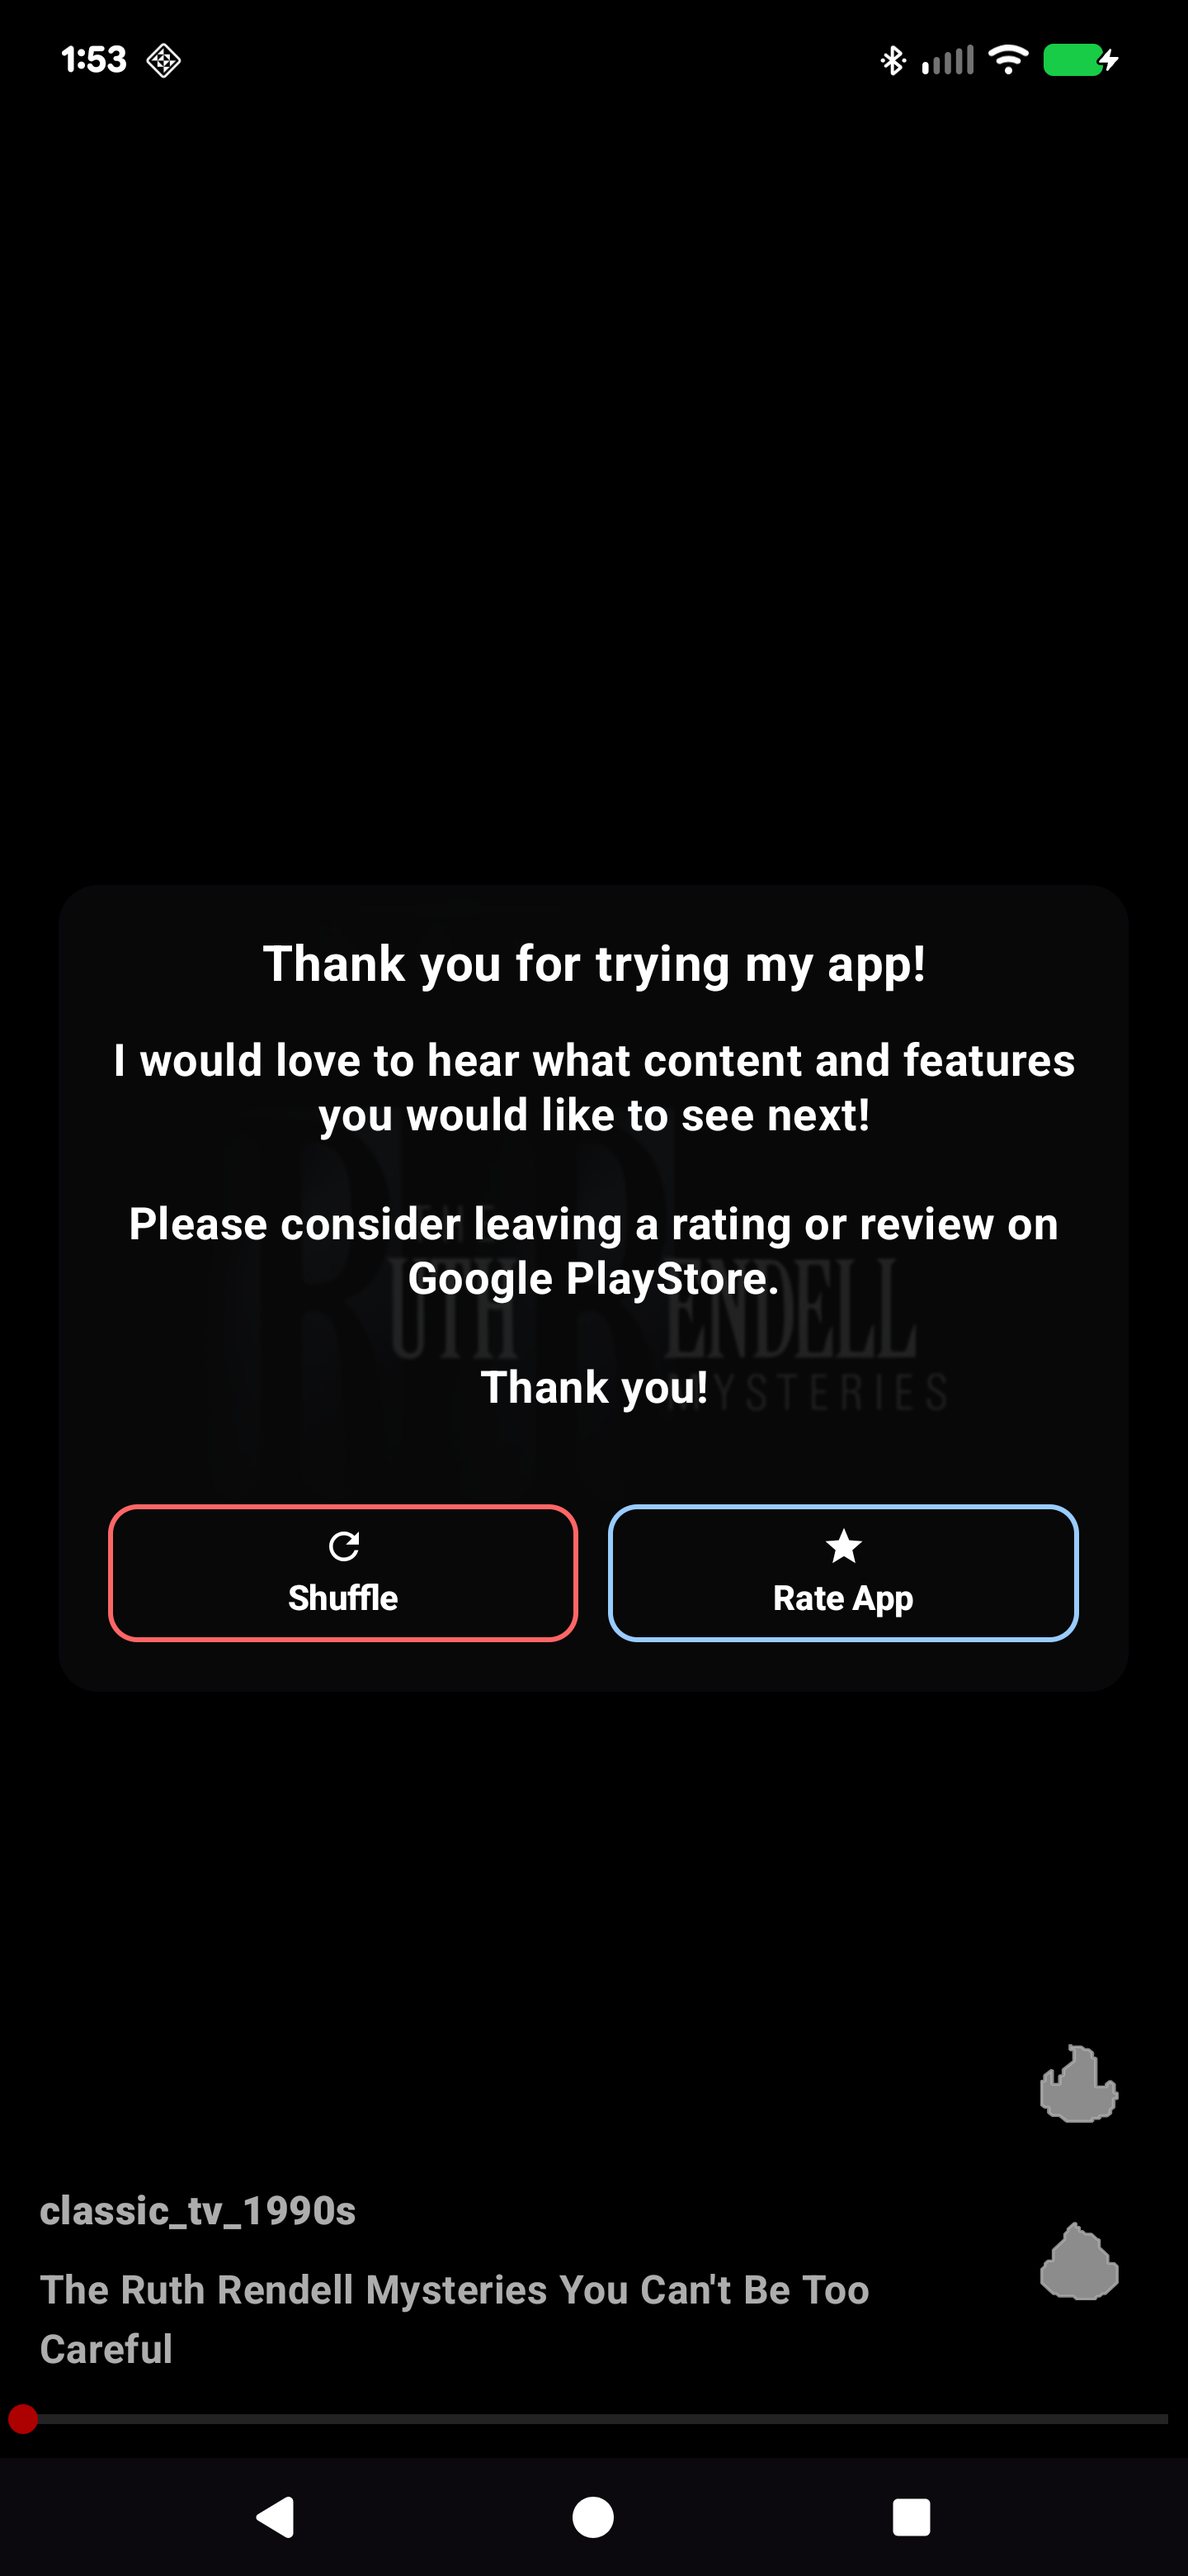
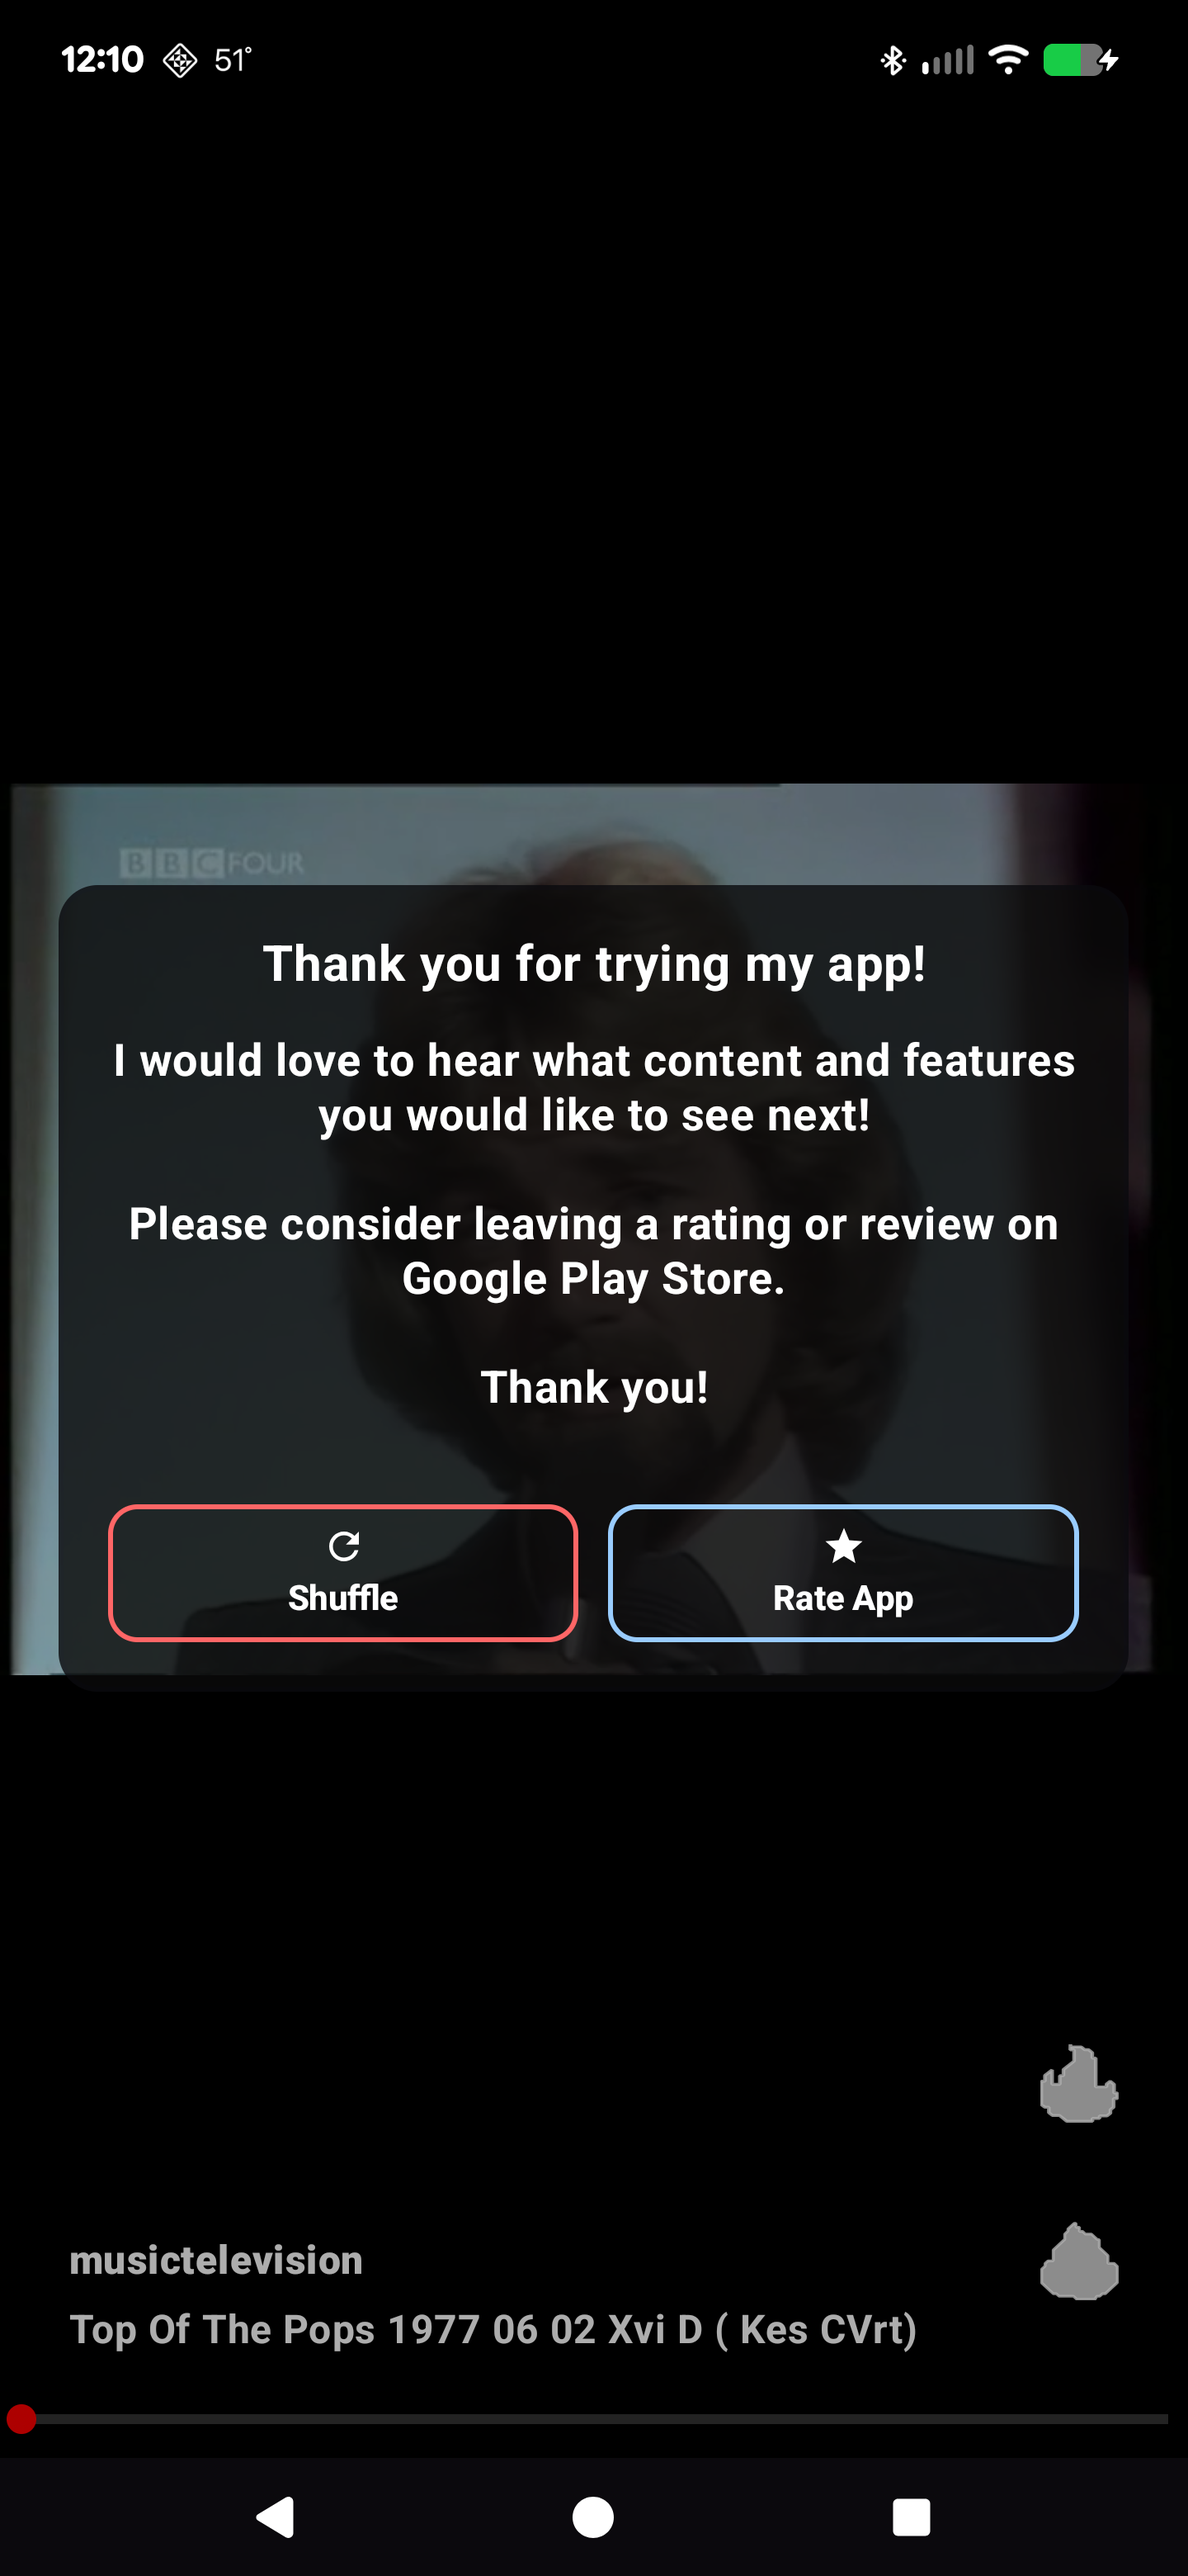
images added and formatting

diff --git a/index.html b/index.html
@@ -91,7 +91,7 @@
 				<li>fullstack web (and cloud) development with HTML, CSS, JavaScript, and TypeScript</li>
 				<li>mobile and backend development with Java</li>
 				<li>machine learning with Python and Jupyter</li>
-				<li>fullstack mobile app engineering with Kotlin and MVVM architecture</li>
+				<li>fullstack mobile engineering with Kotlin</li>
 			</ul>
 		</p>
 		<p> I recently engineered a video-streaming Android app (currently on a Google Play Store test track) named "Flick", which is what the little cute birdie wanted to show you.
@@ -118,6 +118,8 @@
 			<p>Flick is a vertical video app in the style of TikTok with an added discovery feature: a single sideways swipe reveals videos with significant similarity to the current one. Visual and auditory feedback educates users on app functionality and navigation, ensuring an optimal experience from first launch. Users interact via fire (like) and poop (dislike) icons, with video ID, view duration, and preference data uploaded to Firestore.</p>
 			<p>After an initial warmup period, the vertical feed operates on an intelligent cycle that prioritizes videos predicted to generate high engagement. The recommendation engine tokenizes Archive.org metadata and employs cosine similarity calculations weighted by view time and like/dislike ratios. Random content is interspersed to facilitate content discovery beyond the algorithm. The app prebuffers two upcoming videos by default, reducing to one when a qualified similar video exists at the current index. A history index tracks the last-viewed video, enabling users to recover from accidental swipes.</p>
 		</div>
+
+		<hr>
 
 		<h4>Flick User Guide: <a href="assets/documents/user-guide.html" class="guide-link" target="_blank" rel="noopener noreferrer">View Here</a></h4>
 
@@ -240,11 +242,13 @@
 		<hr>
 
 		<h3>Continuous Integration (CI)</h2>
-		<div class="ci-images">
-			<img src="assets/images/flick/ci1.png" alt="CI tests passed">
-			<img src="assets/images/flick/ci2.png" alt="CI tests completed">
+		<div class="image-card">
+			<div class="ci-images">
+				<img src="assets/images/flick/ci1.png" alt="CI tests passed">
+				<img src="assets/images/flick/ci2.png" alt="CI tests completed">
+			</div>
 		</div>
-
+		
 		<hr>
 
 		<!-- Google Play Store CTA -->
@@ -298,10 +302,12 @@
 
 		<hr>
 
-		<img class="mario-image" src="assets/images/mario3.png" alt="2D Super Mario Bros. scene with flagpole scene with steps and a pipe">
-		<img class="mario-image" src="assets/images/mario1.png" alt="3D Super Mario Bros. scene with flagpole scene with steps and a pipe">
-		<img class="mario-image" src="assets/images/mario2.png" alt="3D Super Mario Bros. scene with a Goomba sneaking around behind the steps">
-		
+		<div class="image-card">
+			<img class="mario-image" src="assets/images/mario3.png" alt="2D Super Mario Bros. scene with flagpole scene with steps and a pipe">
+			<img class="mario-image" src="assets/images/mario1.png" alt="3D Super Mario Bros. scene with flagpole scene with steps and a pipe">
+			<img class="mario-image" src="assets/images/mario2.png" alt="3D Super Mario Bros. scene with a Goomba sneaking around behind the steps">
+		</div>
+
 		<h4>Project Files (GitHub): <a href="https://github.com/matthew-pool/matthew-pool.github.io/tree/main/super-mario-bros" target="_blank" rel="noopener noreferrer">View Here</a></h4>
 
 		<hr>
@@ -318,9 +324,13 @@
 		<div class="image-card">
 			<div class="buddy-screenshot-grid">
 				<img src="assets/images/buddy1.png" alt="InventoryBuddy default login screen">
-				<img src="assets/images/buddy2.png" alt="InventoryBuddy login screen with username and masked password">
+				<img src="assets/images/buddy2.png" alt="Login screen with username and masked password">
+				<img src="assets/images/buddy4.png" alt="Account created toast">
 				<img src="assets/images/buddy3.png" alt="SMS access request">
+				<img src="assets/images/buddy5.png" alt="Empty inventory">
 				<img src="assets/images/buddy6.png" alt="Default add window">
+				<img src="assets/images/buddy7.png" alt="Two cans of beans being added">
+				<img src="assets/images/buddy10.png" alt="Delete item prompt">
 			</div>
 		</div>
 
@@ -337,11 +347,13 @@
 
 		<hr>
 
-		<img src="assets/images/aac4.png" alt="Unit test results with all 16 tests passed" style="width: 700px; height: auto;">
-		<img src="assets/images/aac1.png" alt="Spreadsheet showing first few database records">
-		<img src="assets/images/aac2.png" alt="Geolocation map showing the Austin, TX area">
-		<img src="assets/images/aac3.png" alt="AAC database and pie chart of animal distribution">
-				
+		<div class="image-card">
+			<img src="assets/images/aac1.png" alt="Spreadsheet showing first few database records">
+			<img src="assets/images/aac2.png" alt="Geolocation map showing the Austin, TX area">
+			<img src="assets/images/aac4.png" alt="Unit test results with all 16 tests passed" style="width: 700px; height: auto;">
+			<img src="assets/images/aac3.png" alt="AAC database and pie chart of animal distribution">
+		</div>
+
 		<h4>Project Files (GitHub): <a href="https://github.com/matthew-pool/matthew-pool.github.io/tree/main/aac-dashboard" target="_blank" rel="noopener noreferrer">View Here</a></h4>
 
 		<hr>
@@ -365,8 +377,14 @@
 		
 		<hr>
 
-		<img src="assets/images/travel2.png" alt="Travel client website Travel tab to browse trips">
-		<img src="assets/images/travel1.png" alt="Travel admin website to add or edit trips">
+		<div class="image-card">
+			<img src="assets/images/travel2.png" alt="Travel client website Travel tab" class="travel-no-scale">
+			<img src="assets/images/travel1.png" alt="Travel admin website to add and edit trips" class="travel-no-scale">
+			<div class="travel-images-row">
+				<img src="assets/images/travel3.png" alt="Default Add Trip dialog">
+				<img src="assets/images/travel4.png" alt="Filled out Edit Trip dialog">
+			</div>
+		</div>
 		
 		<h4>Project Files (GitHub): <a href="https://github.com/matthew-pool/matthew-pool.github.io/tree/main/travel-web-app" target="_blank" rel="noopener noreferrer">View Here</a></h4>
 
@@ -393,8 +411,11 @@
 
 		<h3>Machine Learning (Python)</h3>
 		<p>Working with a Deep Neural Network (DNN) model, I experimented with various hyperparameter values to find the optimal settings for image detection before reaching the point of diminishing returns in terms of visual quality vs. the resources needed.</p>
-		<img src="assets/images/ml1.png" alt="ML training summary output">
-		<img src="assets/images/ml2.png" alt="ML output statistics">
+		<div class="image-card">
+			<img src="assets/images/ml1.png" alt="ML training summary output">
+			<img src="assets/images/ml2.png" alt="ML output statistics">
+		</div>
+		
 		<p>I also had the experience of optimizing a Deep Q-Learning (DQN) model for a gaming AI agent whose goal was to find the optimized path to its target. The report can be downloaded below.</p>
 		
 		<h4>Machine Learning (DQN) Report: <a href="assets/documents/Deep%20Q-Learning%20Network%20Report.pdf">Download</a></h4>
@@ -406,19 +427,23 @@
 		
 		<hr>
 
-		<img src="assets/images/stat1.png" alt="Null hypothesis, alternative hypothesis, and level of significance">
-		<img src="assets/images/stat2.png" alt="OLS Regression Results">
-		<img src="assets/images/stat3.png" alt="Scatterplot graph showing the correlation of 0.9072 between Elo and total number of wins, with a p-value of 0.0">
-		
+		<div class="image-card">
+			<img src="assets/images/stat1.png" alt="Null hypothesis, alternative hypothesis, and level of significance">
+			<img src="assets/images/stat2.png" alt="OLS Regression Results">
+			<img src="assets/images/stat3.png" alt="Scatterplot graph showing the correlation of 0.9072 between Elo and total number of wins, with a p-value of 0.0">
+		</div>
+
 		<h4>Statistical Project Summary Report: <a href="assets/documents/Statistical%20Project%20Summary%20Report.pdf">Download</a></h4>
 
 		<hr>
 
 		<h2>System Design</h2>
 		<p>This project involved designing a System Design Document (SDD), including system details and various UML diagrams.</p>
-		<img src="assets/images/system2.png" style="width: 100%; max-width: 1280px;" alt="UML Activity Diagram for log in/log out ">
-		<img src="assets/images/system3.png" style="width: 100%; max-width: 1280px;" alt="UML Sequence Diagram for contact us">
-		
+		<div class="image-card">
+			<img src="assets/images/system2.png" style="width: 100%; max-width: 1280px;" alt="UML Activity Diagram for log in/log out ">
+			<img src="assets/images/system3.png" style="width: 100%; max-width: 1280px;" alt="UML Sequence Diagram for contact us">
+		</div>
+
 		<h4>SDD: <a href="assets/documents/System%20Design%20Document%20(SDD)%20%5Bv0.1%5D.pdf">Download</a></h4>
 		
 		<hr>
@@ -513,9 +538,11 @@
 		<img src="assets/images/new5.png" alt="LinkedHashMap declarations">
 		<img src="assets/images/new17.png" alt="Writing to the hash map">
 
+		<hr>
+
+		<p>Meh, that's a little better I guess 😐</p>
 		<h4>Project Files (GitHub): <a href="https://github.com/matthew-pool/matthew-pool.github.io/tree/main/java-enhancements" target="_blank" rel="noopener noreferrer">View Here</a></h4>
-		<br>
- 
+		
 		<hr>
 
 		<!-- Refactor Footer -->

diff --git a/styles.css b/styles.css
@@ -211,6 +211,28 @@
 			box-shadow: 0 4px 6px rgba(0,0,0,0.1); /* Optional: Adds a subtle shadow */
 		}
 
+		/* Travel images - no scaling */
+		.travel-images-row {
+			display: flex;
+			justify-content: center;
+			gap: 20px;
+			margin: 1em auto;
+		}
+
+		.travel-images-row img {
+			max-width: none;
+			width: auto;
+			height: auto;
+			margin: 0;
+		}
+
+		/* Travel images that should not scale */
+		.image-card .travel-no-scale {
+			max-width: none;
+			width: auto;
+			margin: 1em auto;
+		}
+
 		/* Toast notification */
 		.toast {
 			position: absolute;
